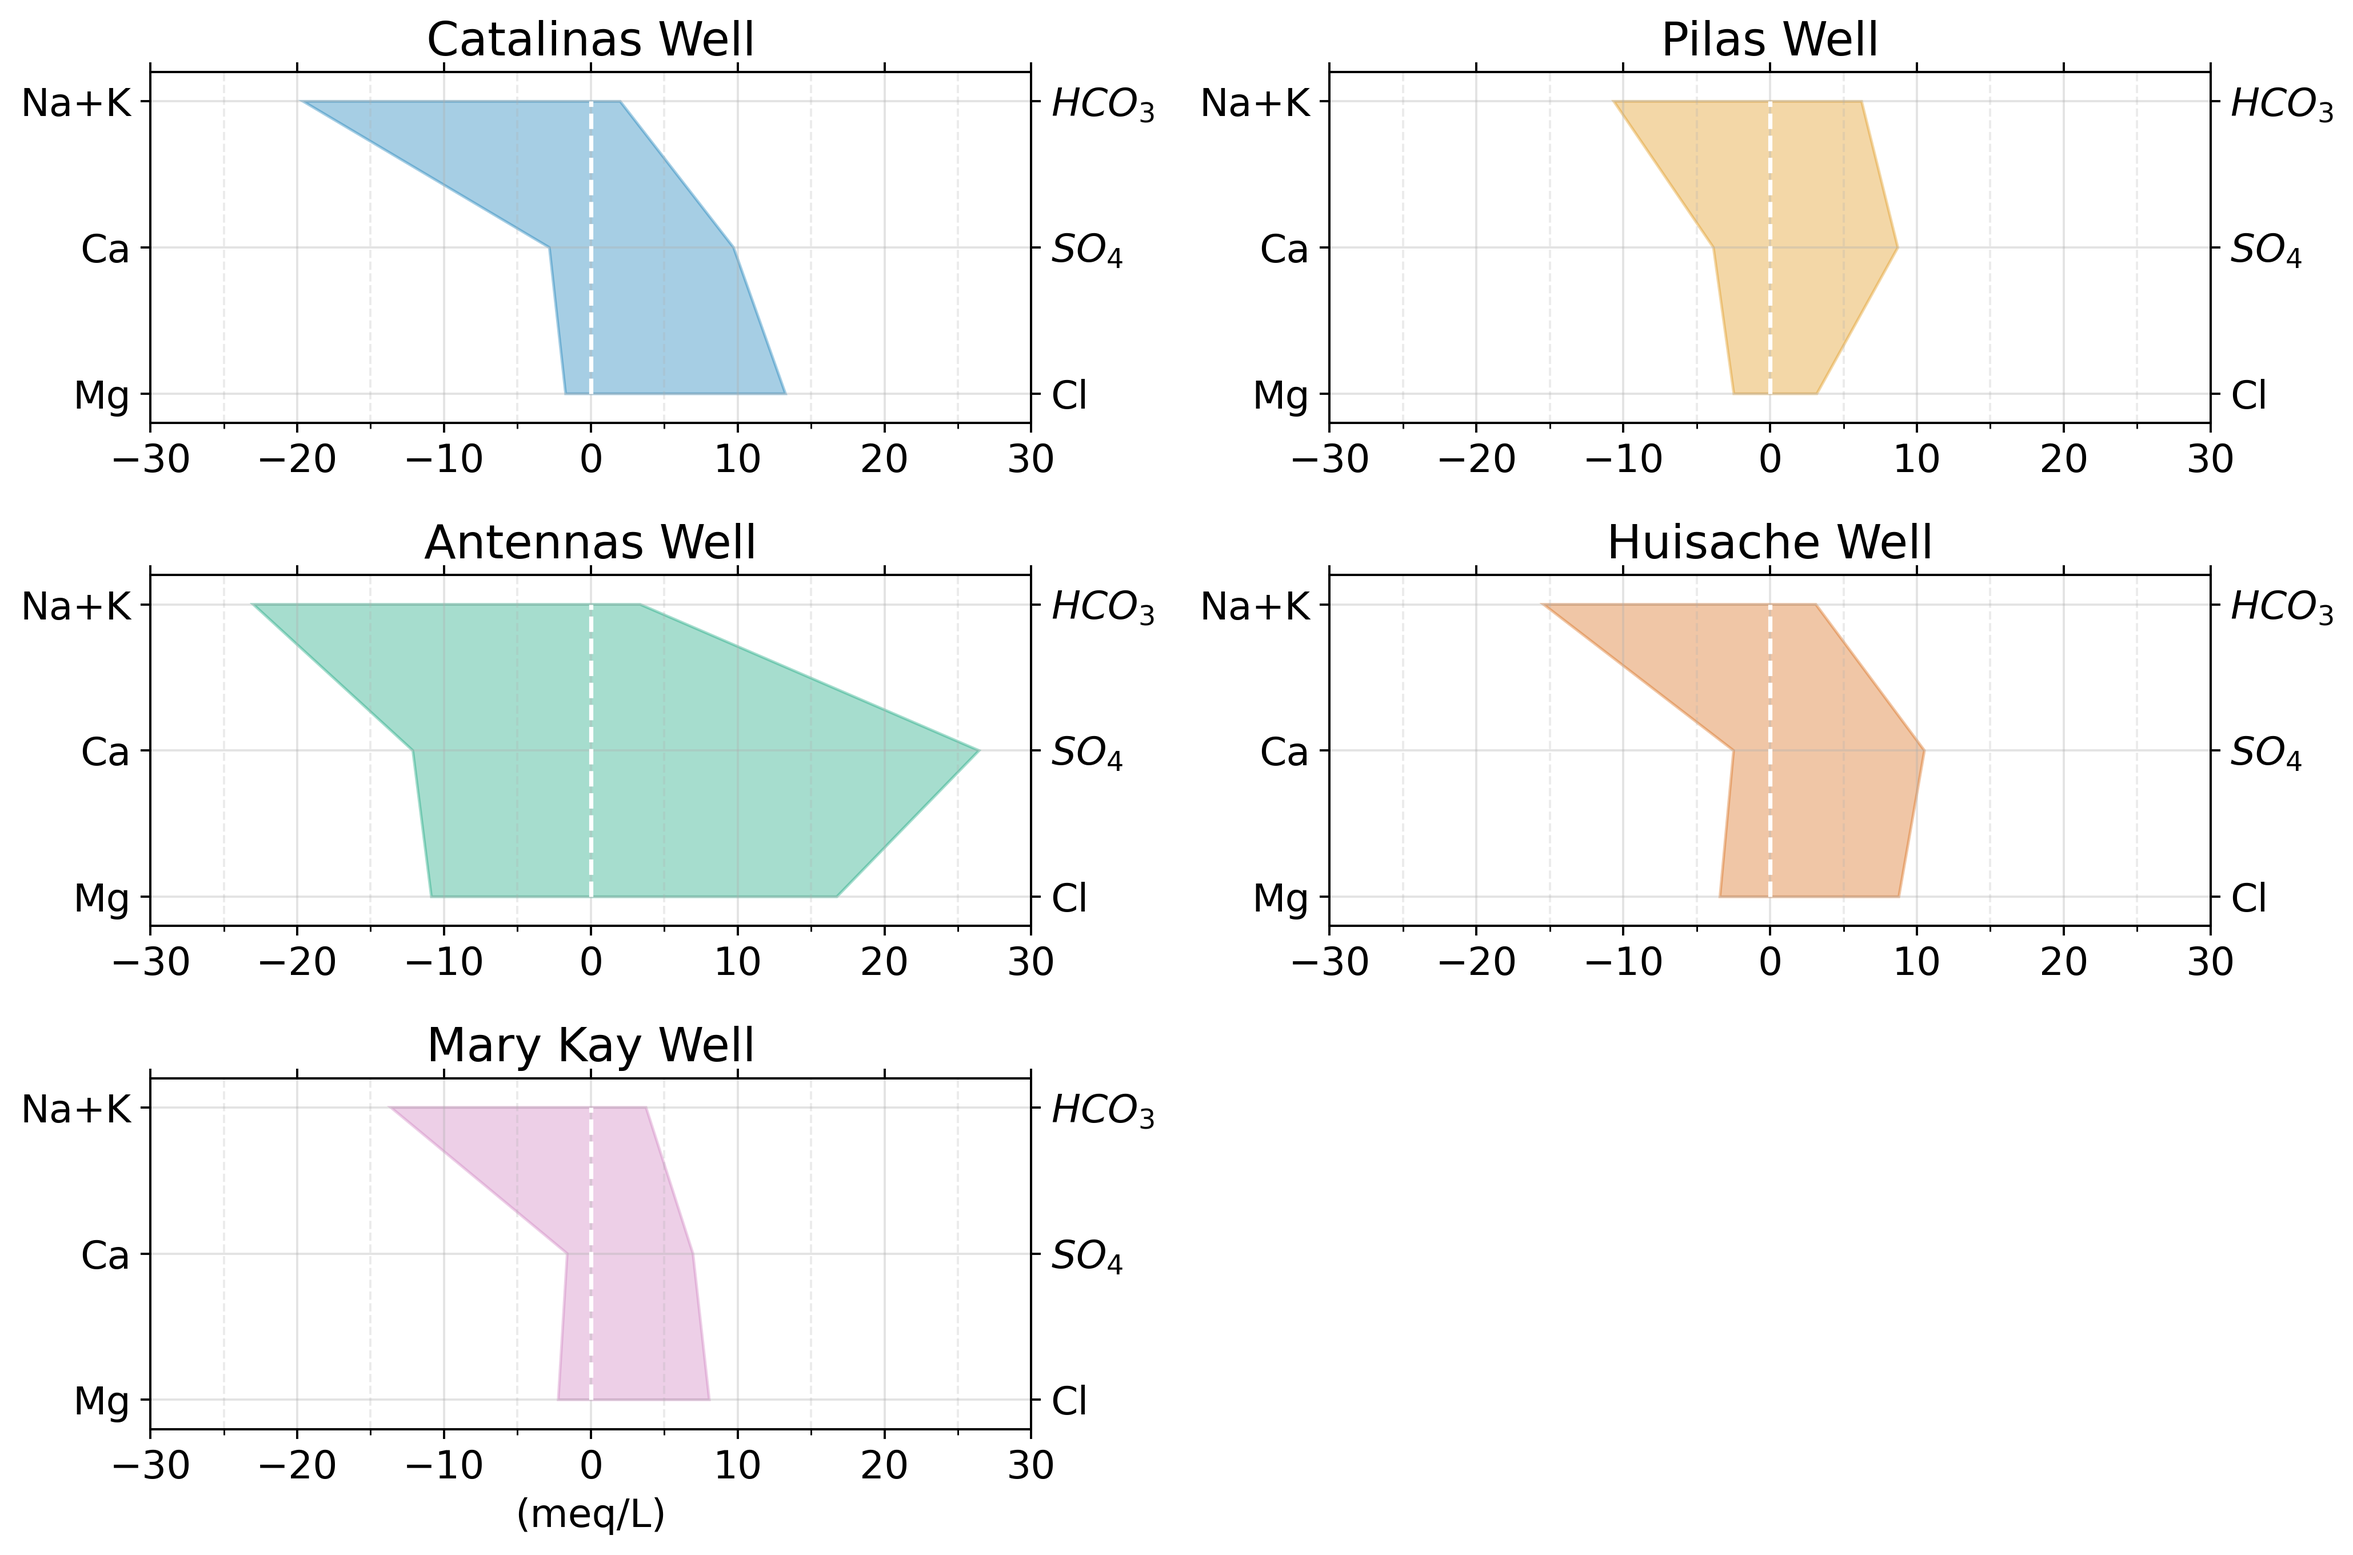
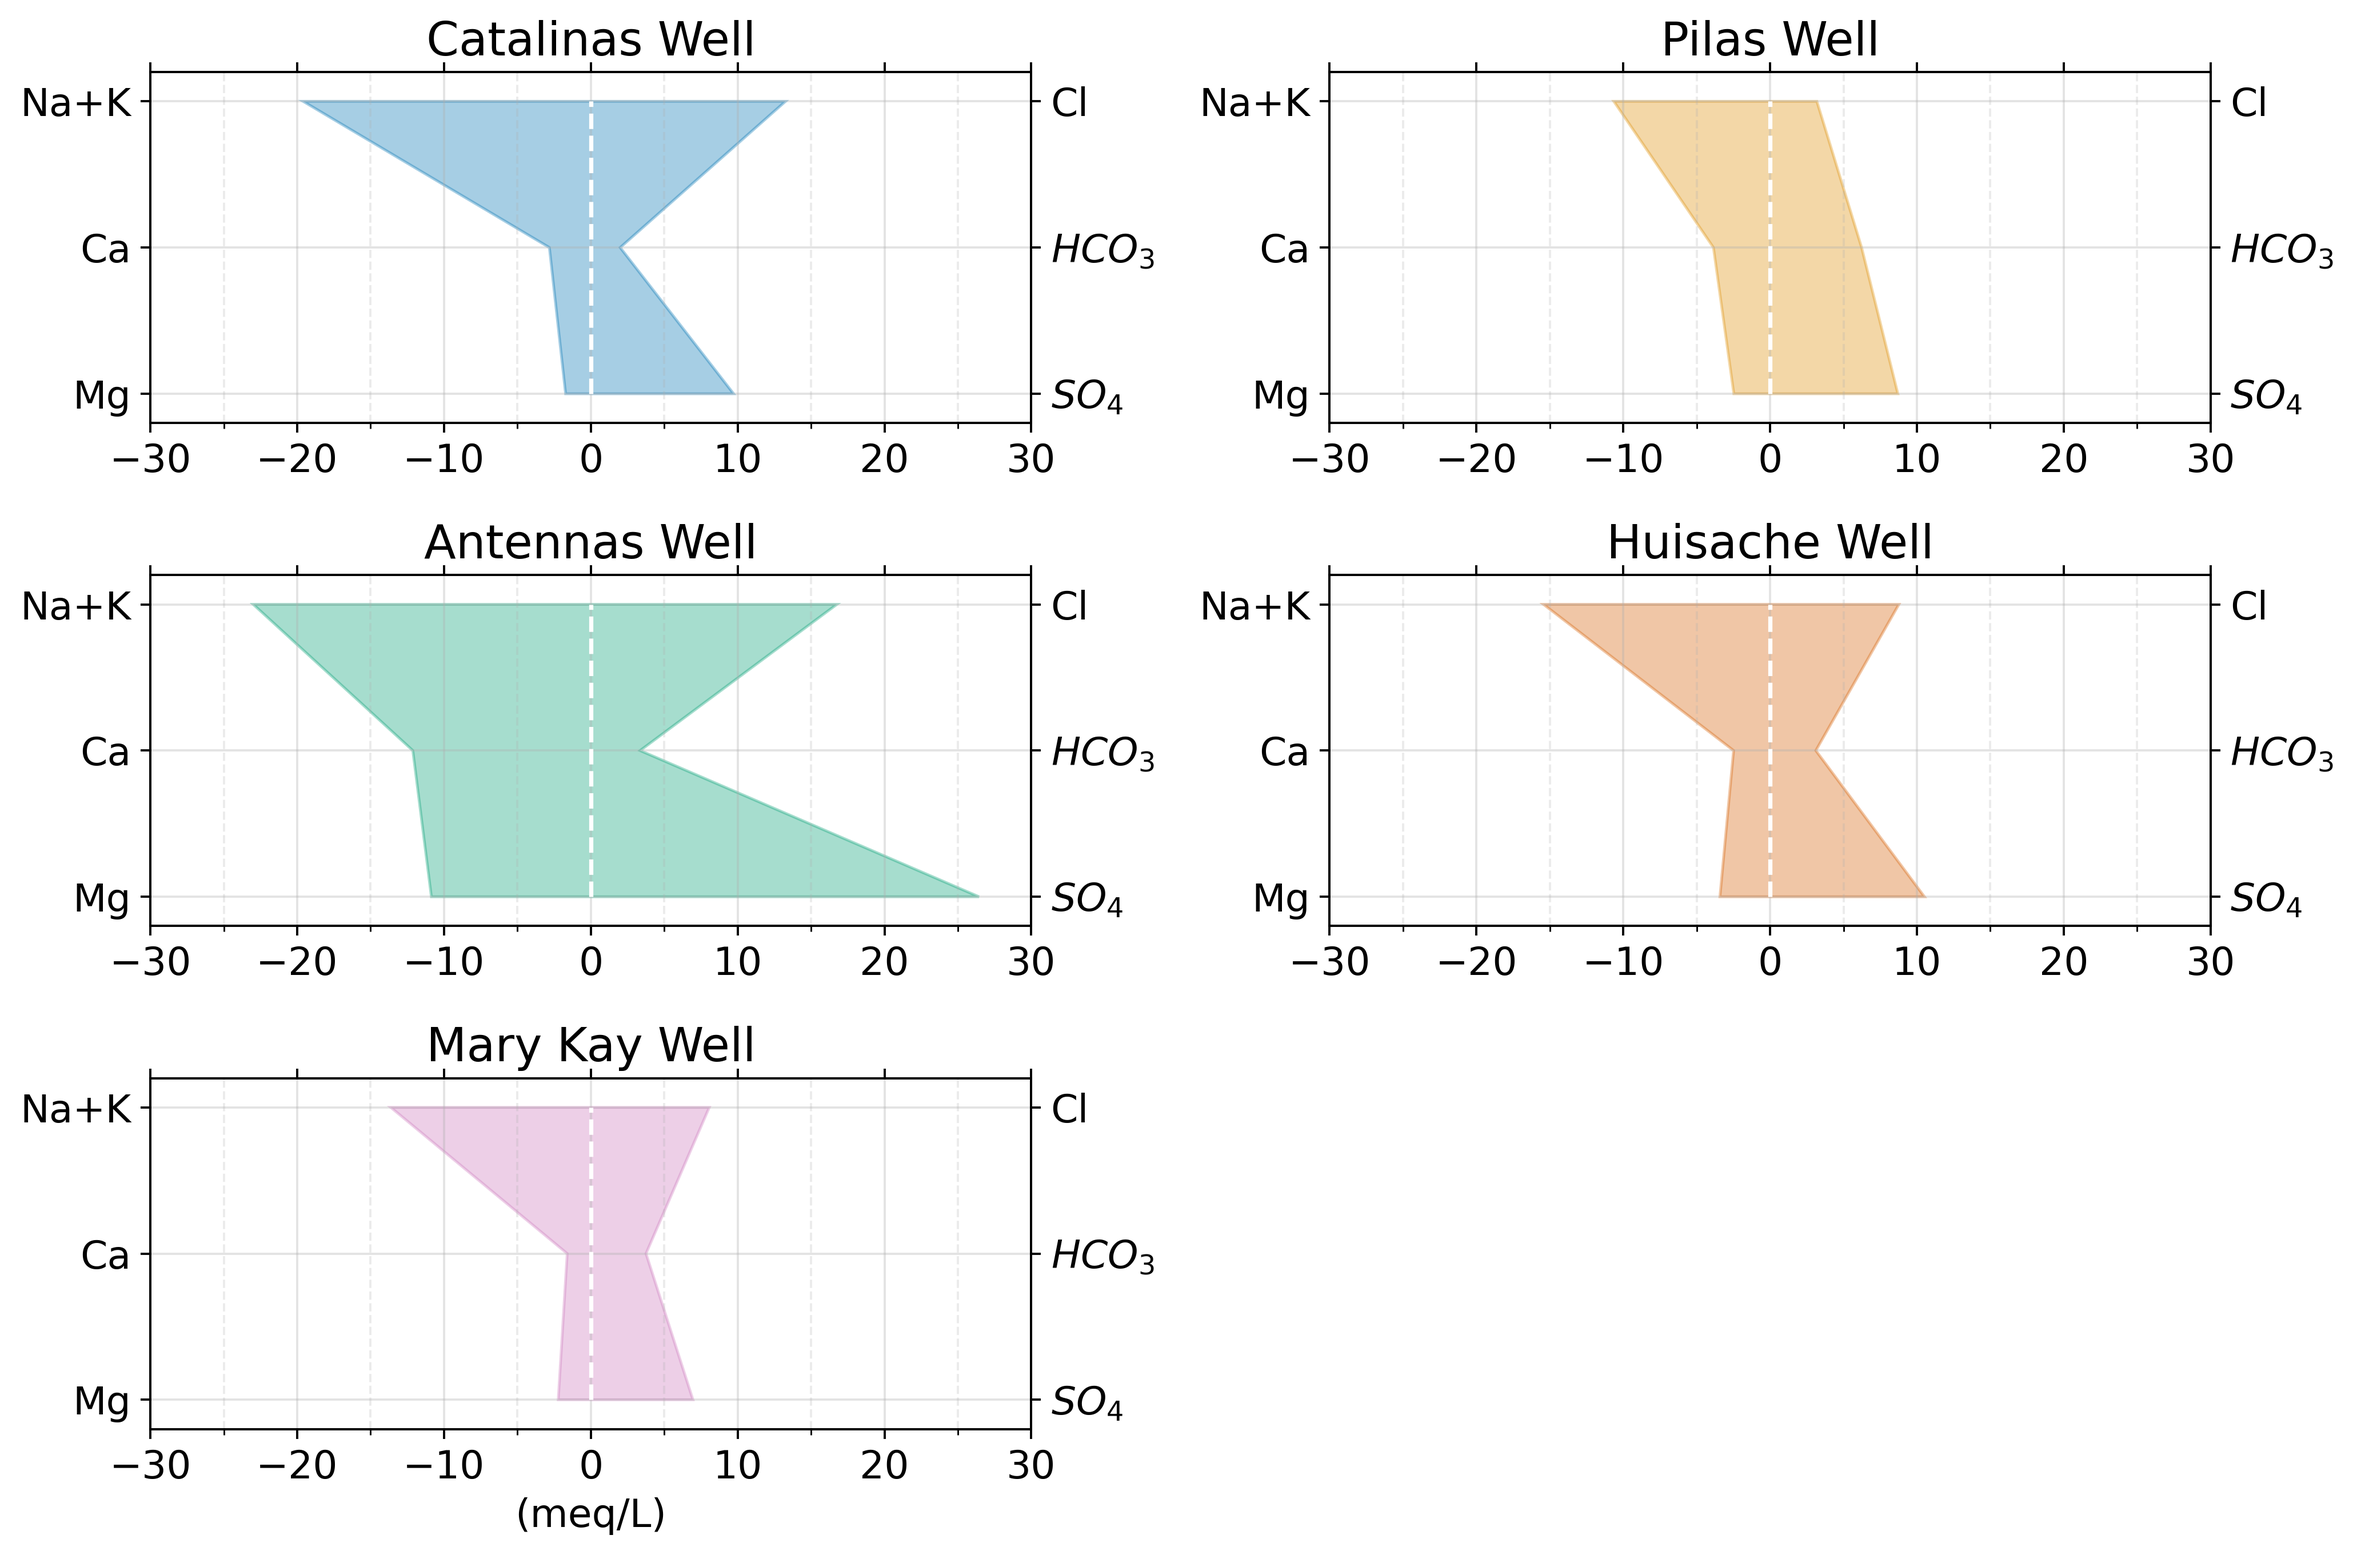
fixes labeling

diff --git a/StiffDiagram.py b/StiffDiagram.py
@@ -76,7 +76,7 @@ try:
         plt.subplot(nrow,ncol,sID+1)
         # plt.hold(True)
         # define x coordinates of fill
-        x=[-obs['NaK'].iloc[sID], -obs['Ca'].iloc[sID], -obs['Mg'].iloc[sID],obs['Cl'].iloc[sID] , obs['SO4'].iloc[sID], obs['HCO3'].iloc[sID], -obs['NaK'].iloc[sID]]
+        x=[-obs['NaK'].iloc[sID], -obs['Ca'].iloc[sID], -obs['Mg'].iloc[sID],obs['SO4'].iloc[sID] , obs['HCO3'].iloc[sID], obs['Cl'].iloc[sID], -obs['NaK'].iloc[sID]]
         y=[3,2,1,1,2,3,3]
     
         # Stiff plots with color depending on water type
@@ -106,8 +106,9 @@ try:
         ax2 = ax.twinx()
         #ax2.yaxis.set_label_position("right")
         # ax2.yaxis.tick_right()
-        ax2.set_yticks([0,1,0.5])
+        
         plt.ylim(-0.1,1.1)
+        ax2.set_yticks([1,0.5,0])
         ax2.set_yticklabels({r'$SO_{4}$',r'$HCO_{3}$','Cl'})
     
         # for spine in plt.gca().spines.values():
